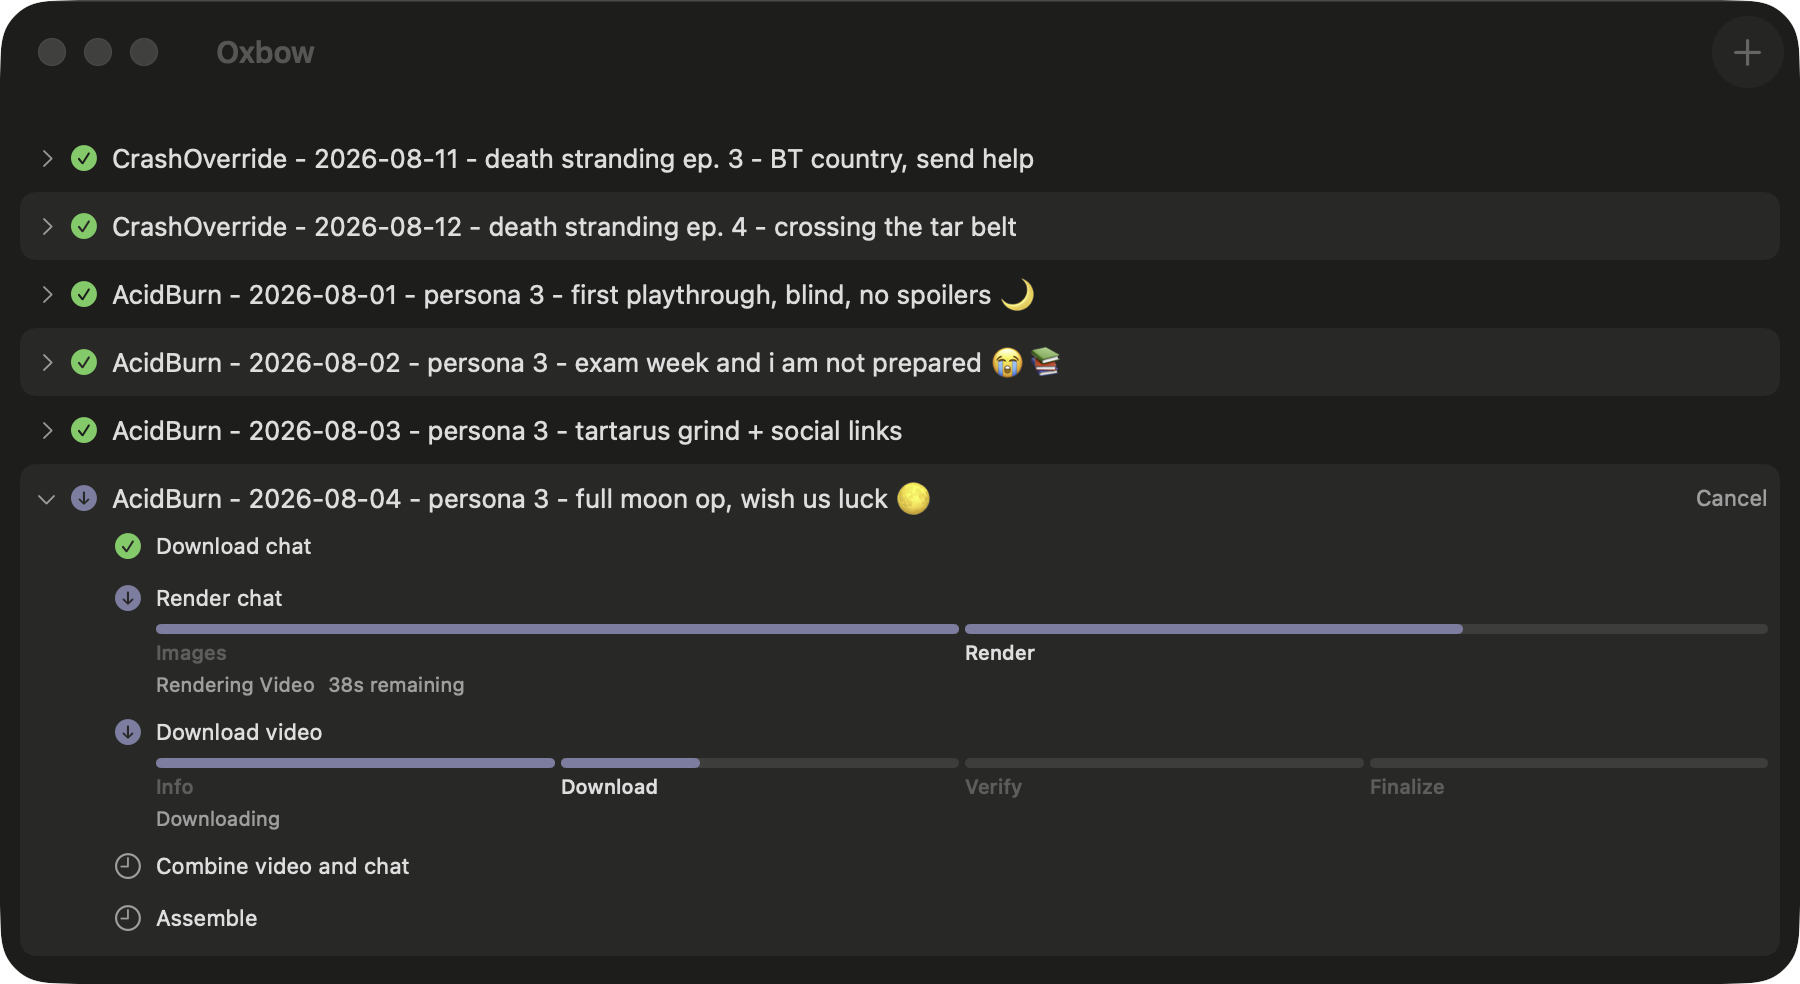
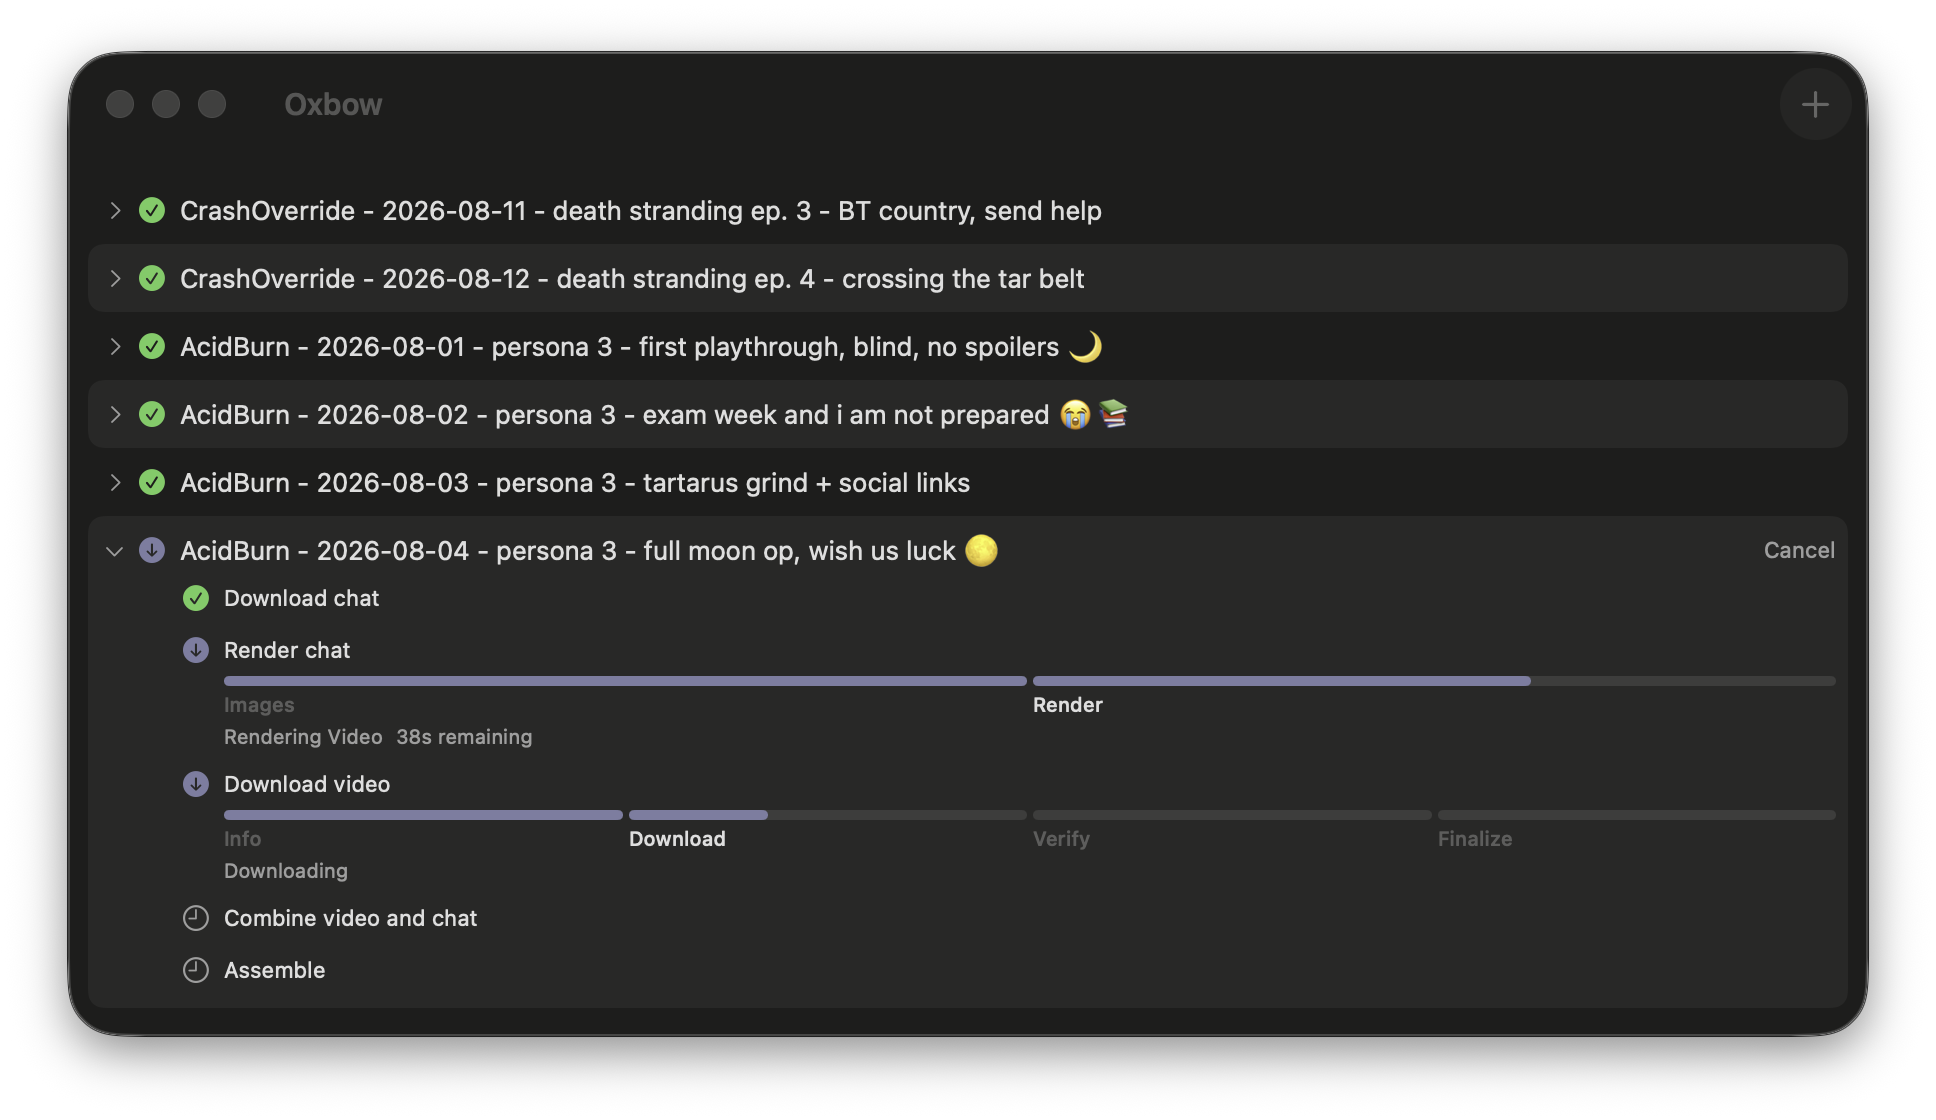
Match window titles exactly first, and let them settle
The queue capture intermittently came back 920x1240 -- 460x620 points, which is
JobInfoWindow's defaultSize. A `WindowGroup(for:)` window carries the
application name until its content applies its own title, so for a moment after
launch there are two windows whose title *contains* "Oxbow", and a substring
match returned whichever the retry loop reached first. The result was an
ordinary-looking screenshot of the wrong window, which is the same failure the
by-application-name matching produced earlier and just as quiet.

Exact match is now preferred, with substring as the fallback that Job Info
still needs (its title is the job's, matched on a prefix). A two second pause
before the first capture lets the titles settle, so the exact match has
something correct to find.

Also adds --no-shadow. The shadow belongs in a composite -- it is the real one,
and the front window's falls on the one behind it for free -- but a design tool
wants clean transparent window edges and its own shadow layer, because a baked
shadow cannot be moved, recoloured or removed there.

Note the shadow padding differs per window: +224px for the intake, +136px for
the queue. macOS draws a larger shadow for the key window, and the intake is
the one that ends up key.

diff --git a/scripts/screenshots/composite.swift b/scripts/screenshots/composite.swift
@@ -1,0 +1,129 @@
+#!/usr/bin/env swift
+//
+// Compose captured windows onto a background.
+//
+// The last manual step in an otherwise one-command pipeline used to be a
+// Photoshop file: regenerate the components, then open Photoshop and rebuild
+// the hero by hand. That is the step most likely to be skipped, which is how a
+// hero image quietly goes a version stale while everything around it is
+// current.
+//
+// The shadows are not drawn here and are not approximated. `screencapture`
+// without `-o` has macOS render its own window shadow into the capture's
+// alpha, so each PNG already carries the real falloff — and the front window's
+// shadow lands on the one behind it for free, because it belongs to that
+// window's own image. Core Graphics only has to draw them in order.
+//
+// Usage:
+//   composite.swift --background bg.png --out hero.png \
+//                   --place queue.png:0:190:1.0 \
+//                   --place intake.png:1250:40:1.0
+//
+// A placement is PATH:X:Y:SCALE, in background pixels, origin top-left, drawn
+// in the order given. Scale is applied about the image's top-left corner.
+
+import AppKit
+import CoreGraphics
+import Foundation
+
+struct Placement {
+  let url: URL
+  let x: CGFloat
+  let y: CGFloat
+  let scale: CGFloat
+}
+
+func die(_ message: String) -> Never {
+  FileHandle.standardError.write(Data((message + "\n").utf8))
+  exit(1)
+}
+
+var backgroundPath: String?
+var outputPath: String?
+var placements: [Placement] = []
+
+var arguments = Array(CommandLine.arguments.dropFirst())
+while let flag = arguments.first {
+  arguments.removeFirst()
+  switch flag {
+  case "--background":
+    guard let value = arguments.first else { die("--background needs a path") }
+    arguments.removeFirst()
+    backgroundPath = value
+  case "--out":
+    guard let value = arguments.first else { die("--out needs a path") }
+    arguments.removeFirst()
+    outputPath = value
+  case "--place":
+    guard let spec = arguments.first else { die("--place needs PATH:X:Y:SCALE") }
+    arguments.removeFirst()
+    // Split from the right: a path may contain colons, the four trailing
+    // fields may not.
+    let parts = spec.split(separator: ":")
+    guard parts.count >= 4,
+          let scale = Double(parts[parts.count - 1]),
+          let y = Double(parts[parts.count - 2]),
+          let x = Double(parts[parts.count - 3])
+    else { die("bad placement \"\(spec)\" — expected PATH:X:Y:SCALE") }
+    let path = parts[0..<(parts.count - 3)].joined(separator: ":")
+    placements.append(Placement(
+      url: URL(filePath: path), x: CGFloat(x), y: CGFloat(y), scale: CGFloat(scale)))
+  default:
+    die("unknown option \(flag)")
+  }
+}
+
+guard let backgroundPath, let outputPath else {
+  die("usage: composite.swift --background BG --out OUT --place PATH:X:Y:SCALE …")
+}
+
+func loadImage(_ url: URL) -> CGImage {
+  guard
+    let source = CGImageSourceCreateWithURL(url as CFURL, nil),
+    let image = CGImageSourceCreateImageAtIndex(source, 0, nil)
+  else { die("could not read \(url.path)") }
+  return image
+}
+
+let background = loadImage(URL(filePath: backgroundPath))
+let width = background.width
+let height = background.height
+
+guard
+  let context = CGContext(
+    data: nil,
+    width: width,
+    height: height,
+    bitsPerComponent: 8,
+    bytesPerRow: 0,
+    space: CGColorSpace(name: CGColorSpace.sRGB)!,
+    bitmapInfo: CGImageAlphaInfo.premultipliedLast.rawValue)
+else { die("could not create a \(width)x\(height) context") }
+
+// Core Graphics is bottom-left origin; every coordinate a person types is
+// top-left, because that is how every design tool and every screenshot reports
+// them. Flip once here rather than making the caller think about it.
+context.interpolationQuality = .high
+context.draw(background, in: CGRect(x: 0, y: 0, width: width, height: height))
+
+for placement in placements {
+  let image = loadImage(placement.url)
+  let drawWidth = CGFloat(image.width) * placement.scale
+  let drawHeight = CGFloat(image.height) * placement.scale
+  let flippedY = CGFloat(height) - placement.y - drawHeight
+  context.draw(image, in: CGRect(
+    x: placement.x, y: flippedY, width: drawWidth, height: drawHeight))
+  let name = placement.url.lastPathComponent
+  print("  \(name)  at \(Int(placement.x)),\(Int(placement.y))  "
+        + "\(Int(drawWidth))x\(Int(drawHeight))  scale \(placement.scale)")
+}
+
+guard
+  let composed = context.makeImage(),
+  let destination = CGImageDestinationCreateWithURL(
+    URL(filePath: outputPath) as CFURL, "public.png" as CFString, 1, nil)
+else { die("could not encode \(outputPath)") }
+
+CGImageDestinationAddImage(destination, composed, nil)
+guard CGImageDestinationFinalize(destination) else { die("could not write \(outputPath)") }
+print("wrote \(outputPath)  \(width)x\(height)")

diff --git a/Oxbow/ScreenshotFixture.swift b/Oxbow/ScreenshotFixture.swift
@@ -161,6 +161,14 @@ extension ScreenshotFixture {
     directory != nil && ProcessInfo.processInfo.environment["OXBOW_FIXTURE_TRIM"] == "1"
   }
 
+  /// The job whose Job Info window should also be opened, if any.
+  static var infoJobID: UUID? {
+    guard directory != nil else { return nil }
+    guard let raw = ProcessInfo.processInfo.environment["OXBOW_FIXTURE_INFO_JOB"], !raw.isEmpty
+    else { return nil }
+    return UUID(uuidString: raw)
+  }
+
   /// Where the script is serving `fixture/thumbnail.jpg`, e.g.
   /// `http://127.0.0.1:8731`.
   static var thumbnailBase: URL? {
@@ -193,11 +201,17 @@ extension ScreenshotFixture {
 struct ScreenshotIntakeOpener: View {
   @Environment(\.openWindow) private var openWindow
   let windowID: String
+  /// Job Info is a `WindowGroup(for: JobID.self)`, so it needs a value rather
+  /// than only a scene id — and one naming a job the fixture actually holds.
+  let infoWindowID: String
 
   var body: some View {
     Color.clear
       .frame(width: 0, height: 0)
       .onAppear {
+        if let job = ScreenshotFixture.infoJobID {
+          openWindow(id: infoWindowID, value: JobID(rawValue: job))
+        }
         guard ScreenshotFixture.link != nil else { return }
         openWindow(id: windowID)
         // Launched from a shell, the app never becomes frontmost, so every

diff --git a/scripts/screenshots/window-id.swift b/scripts/screenshots/window-id.swift
@@ -83,6 +83,16 @@ guard !candidates.isEmpty else {
 }
 
 if let wantedTitle, !wantedTitle.isEmpty {
+  // Exact before substring, and it is load-bearing. A `WindowGroup(for:)`
+  // window is briefly titled with the application name before its content
+  // applies its own title, so while Job Info is settling there are two windows
+  // whose title contains "Oxbow" -- and a substring match would happily return
+  // the wrong one. Which it did: the queue capture came back 460x620, Job
+  // Info's default size, looking like a perfectly ordinary screenshot.
+  if let exact = candidates.first(where: { $0.title == wantedTitle }) {
+    print(exact.id)
+    exit(0)
+  }
   if let match = candidates.first(where: { $0.title.contains(wantedTitle) }) {
     print(match.id)
     exit(0)

diff --git a/Oxbow/OxbowApp.swift b/Oxbow/OxbowApp.swift
@@ -48,7 +48,9 @@ struct OxbowApp: App {
       #if DEBUG
       .background {
         ScreenshotWindowSizer()
-        ScreenshotIntakeOpener(windowID: Self.intakeWindowID)
+        ScreenshotIntakeOpener(
+          windowID: Self.intakeWindowID,
+          infoWindowID: Self.infoWindowID)
       }
       #endif
       // Its own task, not a step inside `setUp()`: the two are unrelated,

diff --git a/scripts/screenshots/make-fixture.py b/scripts/screenshots/make-fixture.py
@@ -245,6 +245,11 @@ def main():
     # two places holding that independently is two places to forget.
     (OUT.parent / "expand.txt").write_text(TITLES[RUNNING_JOB] + "\n")
     (OUT.parent / "videoinfo.json").write_text(json.dumps(INTAKE, indent=2) + "\n")
+    # The mid-flight job's own id. Job Info is a `WindowGroup(for: JobID.self)`,
+    # so opening it needs an id rather than just a window name -- and it has to
+    # be one the fixture contains. The job's id is the first `rawValue` the
+    # walk above assigns, hence ordinal 0.
+    (OUT.parent / "infojob.txt").write_text(stable_uuid(RUNNING_JOB, 0) + "\n")
     (OUT.parent / "link.txt").write_text(INTAKE_LINK + "\n")
 
     print(f"wrote {OUT.relative_to(Path.cwd()) if OUT.is_relative_to(Path.cwd()) else OUT}")
